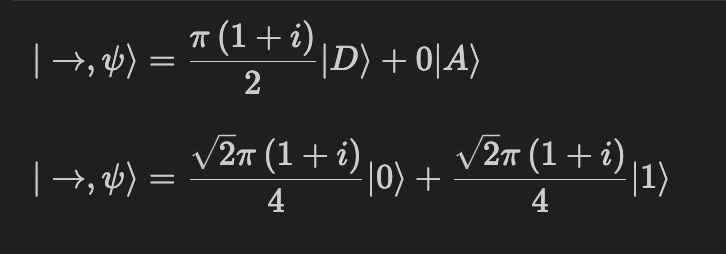
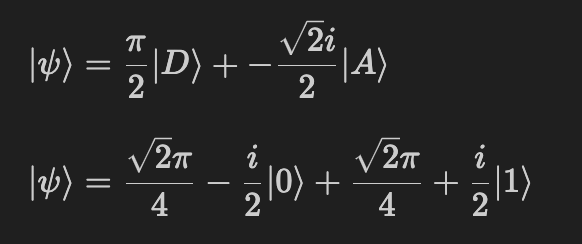
Bugfixes and example updates

diff --git a/quantumObjects.py b/quantumObjects.py
@@ -41,7 +41,7 @@ class Photon():
         elif(self.polarization=='DA'):
             self.digital = self.H*self.amplitudes
         elif(self.polarization=='RL'):
-            self.digital = self.S*self.H*self.amplitudes
+            self.digital = H*S_dagger*self.amplitudes
     def convertHV(self):
         direction_symbol = ''
         if(self.direction == '|'):

diff --git a/README.md b/README.md
@@ -60,9 +60,11 @@ The following quantum gates are predefined in the script:
 
 You can apply these gates to a photon using the * operator.
 ## Example 1 : Converting Basis
-Given some photon with arbitrary polarization, as long as we declare teh amplitudes using sympy, we can convert the photon to different polarization bases. Here's an example:
+Given some photon with arbitrary polarization, as long as we declare teh amplitudes using sympy, we can convert the photon to different polarization bases. Here's an example with the below wavefunction
+![Example input with an arbitrary wavefunction input](example1Input.png)
+:
 ```
-photon = Photon(polarization='RL',amplitudes=sp.Matrix([sp.pi/2,sp.I*sp.pi/2]))
+photon = Photon(polarization='RL',amplitudes=sp.Matrix([sp.pi/2,1/sp.sqrt(2)]))
 photon.convertDA()
 ```
 The above code then returns the below output:
